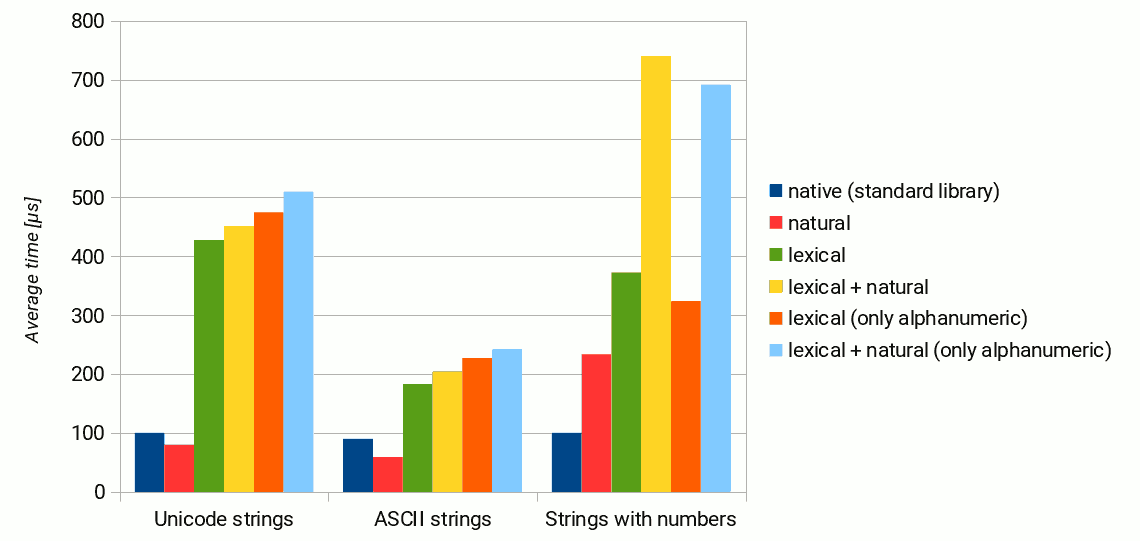
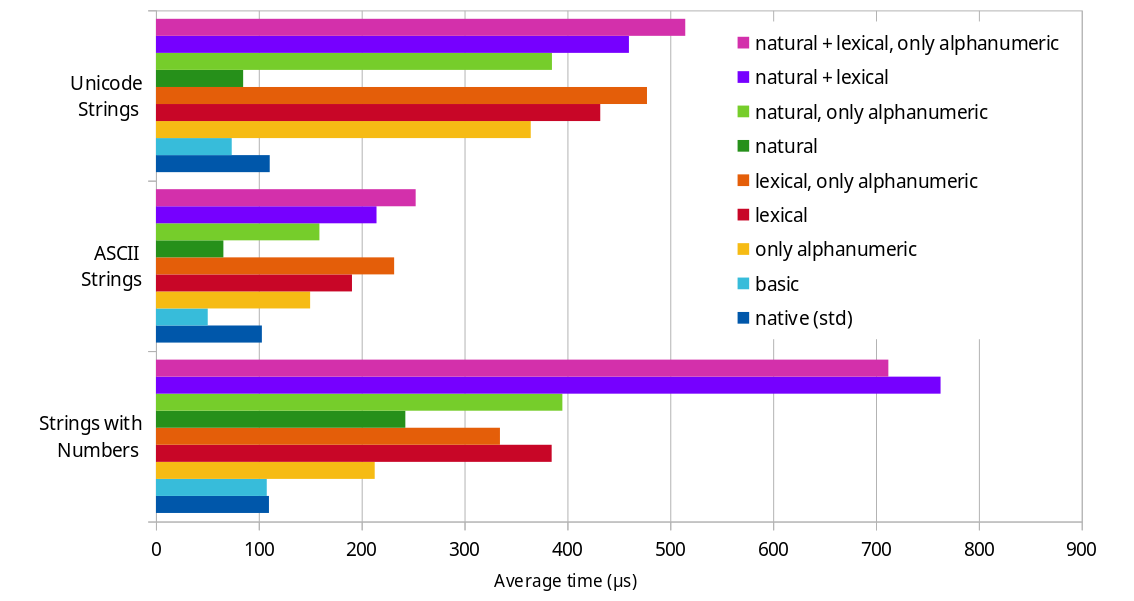
Add baseline `cmp` function, update benchmarks

diff --git a/benches/comparing.rs b/benches/comparing.rs
@@ -1,7 +1,9 @@
-use criterion::{black_box, criterion_group, criterion_main, Criterion};
+use criterion::{
+    black_box, criterion_group, criterion_main, measurement::WallTime, BenchmarkGroup, Criterion,
+};
 use lexical_sort::{
-    lexical_cmp, lexical_only_alnum_cmp, natural_cmp, natural_lexical_cmp,
-    natural_lexical_only_alnum_cmp,
+    cmp, lexical_cmp, lexical_only_alnum_cmp, natural_cmp, natural_lexical_cmp,
+    natural_lexical_only_alnum_cmp, natural_only_alnum_cmp, only_alnum_cmp,
 };
 use std::cmp::Ordering;
 
@@ -100,8 +102,12 @@ static ASCII_STRINGS: [&str; 100] = [
     "elvdTcu.uf+a_W?Rd\\j", "VN4r>2E6<v(esGn", "EBcp*BMN;$lDsn", "]6muXiTau+K)y",
 ];
 
+// Compare every string once with every string except itself
 #[inline(always)]
-fn for_all<'a, F: Fn(&'a str, &'a str) -> Ordering>(arr: &'a [&'a str], f: F) {
+fn for_all<'a, F>(arr: &'a [&'a str], f: F)
+where
+    F: Fn(&'a str, &'a str) -> Ordering,
+{
     for i in 0..100_usize {
         for j in (i..100).skip(1) {
             let l = black_box(arr[i]);
@@ -111,93 +117,54 @@ fn for_all<'a, F: Fn(&'a str, &'a str) -> Ordering>(arr: &'a [&'a str], f: F) {
     }
 }
 
-pub fn compare_strings(c: &mut Criterion) {
-    let mut group = c.benchmark_group("Random strings");
-
-    let strs = STRINGS;
-
+fn bench_all_functions(group: &mut BenchmarkGroup<WallTime>, strs: &[&str; 100]) {
     group.bench_function("native (std)", |b| {
-        b.iter(|| for_all(&strs, str::cmp));
+        b.iter(|| for_all(strs, str::cmp));
     });
     group.bench_function("natural (alphanumerical-sort)", |b| {
-        b.iter(|| for_all(&strs, |l, r| alphanumeric_sort::compare_str(l, r)));
+        b.iter(|| for_all(strs, alphanumeric_sort::compare_str));
     });
-    group.bench_function("natural (lexical-sort)", |b| {
-        b.iter(|| for_all(&strs, natural_cmp));
+    group.bench_function("cmp", |b| {
+        b.iter(|| for_all(strs, cmp));
     });
-    group.bench_function("lexical (lexical-sort)", |b| {
-        b.iter(|| for_all(&strs, lexical_cmp));
+    group.bench_function("only alnum", |b| {
+        b.iter(|| for_all(strs, only_alnum_cmp));
     });
-    group.bench_function("lexical + natural (lexical-sort)", |b| {
-        b.iter(|| for_all(&strs, natural_lexical_cmp));
+    group.bench_function("lexical", |b| {
+        b.iter(|| for_all(strs, lexical_cmp));
     });
-    group.bench_function("lexical (only alnum) (lexical-sort)", |b| {
-        b.iter(|| for_all(&strs, lexical_only_alnum_cmp));
+    group.bench_function("lexical + only alnum", |b| {
+        b.iter(|| for_all(strs, lexical_only_alnum_cmp));
     });
-    group.bench_function("lexical + natural (only alnum) (lexical-sort)", |b| {
-        b.iter(|| for_all(&strs, natural_lexical_only_alnum_cmp));
+    group.bench_function("natural", |b| {
+        b.iter(|| for_all(strs, natural_cmp));
     });
-
-    group.finish();
+    group.bench_function("natural + only alnum", |b| {
+        b.iter(|| for_all(strs, natural_only_alnum_cmp));
+    });
+    group.bench_function("natural + lexical", |b| {
+        b.iter(|| for_all(strs, natural_lexical_cmp));
+    });
+    group.bench_function("natural + lexical + only alnum", |b| {
+        b.iter(|| for_all(strs, natural_lexical_only_alnum_cmp));
+    });
 }
 
-pub fn compare_numbers(c: &mut Criterion) {
-    let mut group = c.benchmark_group("Strings with numbers");
-
-    let strs = NUM_STRINGS;
-
-    group.bench_function("native (std)", |b| {
-        b.iter(|| for_all(&strs, str::cmp));
-    });
-    group.bench_function("natural (alphanumerical-sort)", |b| {
-        b.iter(|| for_all(&strs, |l, r| alphanumeric_sort::compare_str(l, r)));
-    });
-    group.bench_function("natural (lexical-sort)", |b| {
-        b.iter(|| for_all(&strs, natural_cmp));
-    });
-    group.bench_function("lexical (lexical-sort)", |b| {
-        b.iter(|| for_all(&strs, lexical_cmp));
-    });
-    group.bench_function("lexical + natural (lexical-sort)", |b| {
-        b.iter(|| for_all(&strs, natural_lexical_cmp));
-    });
-    group.bench_function("lexical (only alnum) (lexical-sort)", |b| {
-        b.iter(|| for_all(&strs, lexical_only_alnum_cmp));
-    });
-    group.bench_function("lexical + natural (only alnum) (lexical-sort)", |b| {
-        b.iter(|| for_all(&strs, natural_lexical_only_alnum_cmp));
-    });
-
+pub fn compare_strings(c: &mut Criterion) {
+    let mut group = c.benchmark_group("Unicode strings");
+    bench_all_functions(&mut group, &STRINGS);
     group.finish();
 }
 
 pub fn compare_ascii(c: &mut Criterion) {
     let mut group = c.benchmark_group("ASCII strings");
+    bench_all_functions(&mut group, &ASCII_STRINGS);
+    group.finish();
+}
 
-    let strs = ASCII_STRINGS;
-
-    group.bench_function("native (std)", |b| {
-        b.iter(|| for_all(&strs, str::cmp));
-    });
-    group.bench_function("natural (alphanumerical-sort)", |b| {
-        b.iter(|| for_all(&strs, |l, r| alphanumeric_sort::compare_str(l, r)));
-    });
-    group.bench_function("natural (lexical-sort)", |b| {
-        b.iter(|| for_all(&strs, natural_cmp));
-    });
-    group.bench_function("lexical (lexical-sort)", |b| {
-        b.iter(|| for_all(&strs, lexical_cmp));
-    });
-    group.bench_function("lexical + natural (lexical-sort)", |b| {
-        b.iter(|| for_all(&strs, natural_lexical_cmp));
-    });
-    group.bench_function("lexical (only alnum) (lexical-sort)", |b| {
-        b.iter(|| for_all(&strs, lexical_only_alnum_cmp));
-    });
-    group.bench_function("lexical + natural (only alnum) (lexical-sort)", |b| {
-        b.iter(|| for_all(&strs, natural_lexical_only_alnum_cmp));
-    });
-
+pub fn compare_numbers(c: &mut Criterion) {
+    let mut group = c.benchmark_group("Strings with numbers");
+    bench_all_functions(&mut group, &NUM_STRINGS);
     group.finish();
 }
 

diff --git a/src/lib.rs b/src/lib.rs
@@ -2,7 +2,7 @@
 //! means that non-ASCII characters such as `á` or `ß` are treated like their closest ASCII
 //! character: `á` is treated as `a`, `ß` is treated as `ss`, etc.
 //!
-//! The comparison is case-insensitive. Alphanumeric characters are sorted after all other
+//! Lexical comparisons are case-insensitive. Alphanumeric characters are sorted after all other
 //! characters (punctuation, whitespace, special characters, emojis, ...).
 //!
 //! It is possible to enable **natural sorting**, which also handles ASCII numbers. For example,
@@ -30,23 +30,26 @@
 //! assert_eq!(&strings, &[".", "50", "100", "B!", "é", "hello", "ß", "world"]);
 //! ```
 //!
-//! There are seven comparison functions:
+//! There are eight comparison functions:
 //!
-//! | Function                         | lexicographical | natural | skips non-alphanumeric characters |
-//! | -------------------------------- |:---------------:|:-------:|:---------------------------------:|
-//! | `only_alnum_cmp`                 |                 |         | yes                               |
-//! | `lexical_cmp`                    | yes             |         |                                   |
-//! | `lexical_only_alnum_cmp`         | yes             |         | yes                               |
-//! | `natural_cmp`                    |                 | yes     |                                   |
-//! | `natural_only_alnum_cmp`         |                 | yes     | yes                               |
-//! | `natural_lexical_cmp`            | yes             | yes     |                                   |
-//! | `natural_lexical_only_alnum_cmp` | yes             | yes     | yes                               |
+//! | Function                         | lexicographical | natural | skips non-alphanumeric chars |
+//! | -------------------------------- |:---------------:|:-------:|:----------------------------:|
+//! | `cmp`                            |                 |         |                              |
+//! | `only_alnum_cmp`                 |                 |         | yes                          |
+//! | `lexical_cmp`                    | yes             |         |                              |
+//! | `lexical_only_alnum_cmp`         | yes             |         | yes                          |
+//! | `natural_cmp`                    |                 | yes     |                              |
+//! | `natural_only_alnum_cmp`         |                 | yes     | yes                          |
+//! | `natural_lexical_cmp`            | yes             | yes     |                              |
+//! | `natural_lexical_only_alnum_cmp` | yes             | yes     | yes                          |
+//!
+//! Note that only the functions that sort lexicographically are case insensitive.
 
 mod cmp;
 pub mod iter;
 
 pub use cmp::{
-    lexical_cmp, lexical_only_alnum_cmp, natural_cmp, natural_lexical_cmp,
+    cmp, lexical_cmp, lexical_only_alnum_cmp, natural_cmp, natural_lexical_cmp,
     natural_lexical_only_alnum_cmp, natural_only_alnum_cmp, only_alnum_cmp,
 };
 

diff --git a/src/cmp.rs b/src/cmp.rs
@@ -205,6 +205,27 @@ pub fn only_alnum_cmp(s1: &str, s2: &str) -> Ordering {
     }
 }
 
+/// Compares strings (not lexicographically or naturally, doesn't skip non-alphanumeric characters)
+///
+/// For example, `"B" < "a" < "b" < "ä"`
+pub fn cmp(s1: &str, s2: &str) -> Ordering {
+    let mut iter1 = s1.chars();
+    let mut iter2 = s2.chars();
+
+    loop {
+        match (iter1.next(), iter2.next()) {
+            (Some(lhs), Some(rhs)) => {
+                if lhs != rhs {
+                    return lhs.cmp(&rhs);
+                }
+            }
+            (Some(_), None) => return Ordering::Greater,
+            (None, Some(_)) => return Ordering::Less,
+            (None, None) => return Ordering::Equal,
+        }
+    }
+}
+
 #[cfg(test)]
 mod tests {
     use super::*;
@@ -217,6 +238,20 @@ mod tests {
             let success = algo(rhs, lhs) == Ordering::Greater;
             assert!(success, "{} comparison {:?} > {:?} failed", desc, rhs, lhs);
         }
+    }
+
+    #[test]
+    fn test_cmp() {
+        let ordered = make_test("Cmp", cmp);
+
+        ordered("aaa", "aaaa");
+        ordered("aaa", "aab");
+        ordered("AAb", "aaa");
+        ordered("aab", "äáa");
+        ordered("aaa", "äáb");
+
+        ordered("T-20", "T-5");
+        ordered("T-5", "Ŧ-5");
     }
 
     #[test]

diff --git a/README.md b/README.md
@@ -2,7 +2,7 @@
 
 This is a library to compare and sort strings (or file paths) **lexicographically**. This means that non-ASCII characters such as `á` or `ß` are treated like their closest ASCII character: `á` is treated as `a`, `ß` is treated as `ss`, etc.
 
-The comparison is case-insensitive. Alphanumeric characters are sorted after all other characters (punctuation, whitespace, special characters, emojis, ...).
+Lexical comparisons are case-insensitive. Alphanumeric characters are sorted after all other characters (punctuation, whitespace, special characters, emojis, ...).
 
 It is possible to enable **natural sorting**, which also handles ASCII numbers. For example, `50` is less than `100` with natural sorting turned on. It's also possible to skip characters that aren't alphanumeric, so e.g. `f-5` is next to `f5`.
 
@@ -25,17 +25,20 @@ strings.string_sort_unstable(natural_lexical_cmp);
 assert_eq!(&strings, &[".", "50", "100", "B!", "é", "hello", "ß", "world"]);
 ```
 
-There are seven comparison functions:
+There are eight comparison functions:
 
-| Function                         | lexicographical | natural | skips non-alphanumeric characters |
-| -------------------------------- |:---------------:|:-------:|:---------------------------------:|
-| `only_alnum_cmp`                 |                 |         | yes                               |
-| `lexical_cmp`                    | yes             |         |                                   |
-| `lexical_only_alnum_cmp`         | yes             |         | yes                               |
-| `natural_cmp`                    |                 | yes     |                                   |
-| `natural_only_alnum_cmp`         |                 | yes     | yes                               |
-| `natural_lexical_cmp`            | yes             | yes     |                                   |
-| `natural_lexical_only_alnum_cmp` | yes             | yes     | yes                               |
+| Function                         | lexicographical | natural | skips non-alphanumeric chars |
+| -------------------------------- |:---------------:|:-------:|:----------------------------:|
+| `cmp`                            |                 |         |                              |
+| `only_alnum_cmp`                 |                 |         | yes                          |
+| `lexical_cmp`                    | yes             |         |                              |
+| `lexical_only_alnum_cmp`         | yes             |         | yes                          |
+| `natural_cmp`                    |                 | yes     |                              |
+| `natural_only_alnum_cmp`         |                 | yes     | yes                          |
+| `natural_lexical_cmp`            | yes             | yes     |                              |
+| `natural_lexical_only_alnum_cmp` | yes             | yes     | yes                          |
+
+Note that only the functions that sort lexicographically are case insensitive.
 
 ## Characteristics
 
@@ -52,11 +55,11 @@ Note that comparisons are slower for strings where many characters at the start 
 
 These benchmarks were executed on an AMD A8-7600 Radeon R7 CPU with 4x 3.1GHz.
 
-The benchmark on the left compares 100 randomly generated strings with 5 to 20 characters, containing both ASCII and non-ASCII characters. Several of them need to be transliterated to multiple characters (e.g. `ß`, `æ`).
+- The first benchmark compares 100 randomly generated strings with 5 to 20 characters, containing both ASCII and non-ASCII characters.
+- The second benchmark also compares 100 randomly generated strings with 5 to 20 characters, but they're ASCII-only.
+- The last benchmark compares 100 randomly generated strings, each consisting of `"T-"` followed by 1 to 8 decimal digits. This is a stress test for natural sorting.
 
-The benchmark in the middle also comparse 100 randomly generated strings with 5 to 20 characters, but they are ASCII-only.
-
-The benchmark on the right comparse 100 randomly generated strings. Each string consists of `"T-"` followed by 1 to 8 decimal digits. This is a stress test for natural sorting.
+The last, dark blue bar is the string comparison function in the standard library:
 
 ![Diagrams](./docs/Diagrams.png)
 
